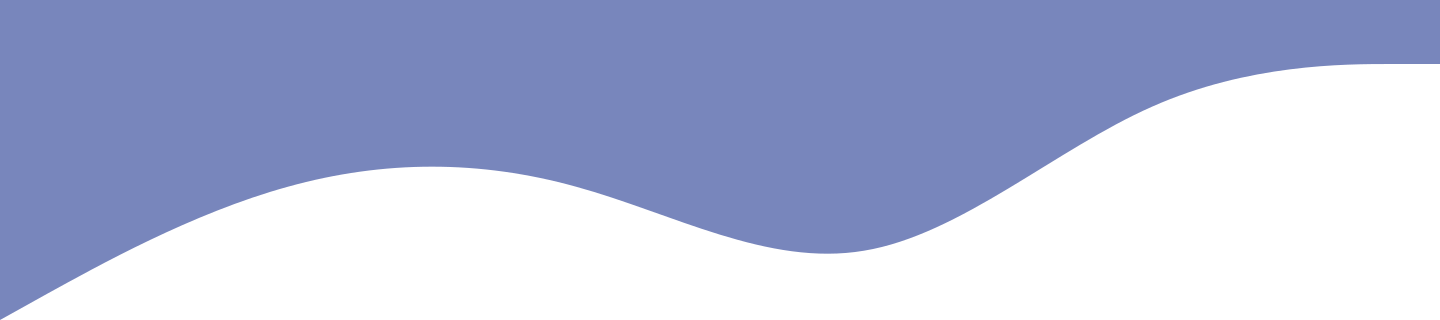
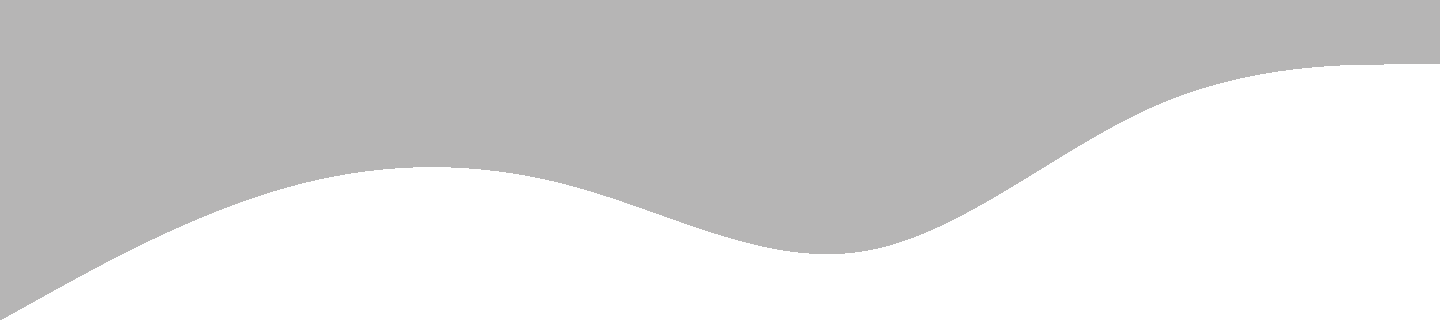
commit 5

diff --git a/man.html b/man.html
@@ -1,0 +1,114 @@
+<!DOCTYPE html>
+<html lang="en">
+
+<head>
+    <meta charset="UTF-8">
+    <meta http-equiv="X-UA-Compatible" content="IE=edge">
+    <meta name="viewport" content="width=device-width, initial-scale=1.0">
+    <link rel="stylesheet" href="https://cdn.jsdelivr.net/npm/bootstrap@4.6.2/dist/css/bootstrap.min.css"
+        integrity="sha384-xOolHFLEh07PJGoPkLv1IbcEPTNtaed2xpHsD9ESMhqIYd0nLMwNLD69Npy4HI+N" crossorigin="anonymous">
+    <link rel="stylesheet" href="assets/css/main.css">
+    <link rel="shortcut icon" href="assets/img/brand/brand.png" type="image/x-icon">
+    <title>Mar Valencia | Asesora de Imagen</title>
+</head>
+
+<body>
+
+    <nav class="navbar navbar-expand-lg navbar-light bg-white fixed-top">
+        <div class="container">
+            <a class="navbar-brand" href="#">
+                <img class="img-fluid" width="80" src="assets/img/brand/brand.png" alt="">
+                <span>Mar Valencia</span>
+            </a>
+            <button class="navbar-toggler" type="button" data-toggle="collapse" data-target="#navbarNav"
+                aria-controls="navbarNav" aria-expanded="false" aria-label="Toggle navigation">
+                <span class="navbar-toggler-icon"></span>
+            </button>
+            <div class="collapse navbar-collapse justify-content-end" id="navbarNav">
+                <ul class="navbar-nav text-center">
+                    <li class="nav-item">
+                        <a class="nav-link" href="#">Inicio</a>
+                    </li>
+                    <li class="nav-item">
+                        <a class="nav-link" href="#">Mujeres</a>
+                    </li>
+                    <li class="nav-item">
+                        <a class="nav-link active" href="#">Hombres</a>
+                    </li>
+                    <li class="nav-item">
+                        <a class="nav-link" href="#">Servicios Online</a>
+                    </li>
+                    <li class="nav-item">
+                        <a class="nav-link-btn" href="#">Contacto</a>
+                    </li>
+                </ul>
+            </div>
+        </div>
+    </nav>
+
+    <section class="header-man">
+        <div class="bg-header-man">
+            <div class="container h-100">
+                <div class="row justify-content-center h-100 align-items-center">
+                    <div class="col-lg-12 text-center">
+                        <h1>Conócete primero y luego adórnate acorde a ello. </h1>
+                    </div>
+                </div>
+            </div>
+        </div>
+    </section>
+
+    <section class="section1">
+        <div class="container-fluid">
+            <div class="row justify-content-center">
+                <div class="col-lg-6 text-center">
+                    <img src="assets/img/about/man1.jpg" width="600" class="img-fluid img-mar">
+                </div>
+                <div class="col-lg-6 align-self-center">
+                    <h1>Te ayudo a que brilles por ti mismo </h1>
+                    <p class="text-justify mt-5">
+                        El estilo debe ser siempre una declaración de principios de uno mismo, expresa lo que somos sin
+                        tener que hablar.
+                        Esta es la razón por la que mis servicios de consultoría de imagen para hombre son
+                        personalizados y únicos para cada uno de mis clientes. Con los que profundizo en su forma de
+                        vida, gustos, características físicas para conseguir los mejores resultados.
+
+                    </p>
+                </div>
+            </div>
+        </div>
+    </section>
+
+    <footer>
+        <div class="container">
+            <div class="row justify-content-center">
+                <div class="col-lg-4 align-self-center text-center">
+                    <img src="assets/img/brand/whitebrand.png" width="80" alt="" class="img-fluid">
+                    <span>Mar valencia</span>
+                </div>
+                <div class="col-lg-4 align-self-center">
+                    <p class="text-center">Footer Menu</p>
+                    <div class="footer-menu text-center">
+                        <a href="">Inicio</a>
+                        <a href="">Mujeres</a>
+                        <a href="">Hombres</a>
+                        <a href="">Servicios Online</a>
+                        <a href="">Contacto</a>
+                    </div>
+                </div>
+                <div class="col-lg-4 align-self-center design text-center">
+                    Template diseñado por <a class="creativotion" href="https://creativotion.com">creativotion.com</a>
+                </div>
+            </div>
+        </div>
+    </footer>
+
+    <script src="https://cdn.jsdelivr.net/npm/jquery@3.5.1/dist/jquery.slim.min.js"
+        integrity="sha384-DfXdz2htPH0lsSSs5nCTpuj/zy4C+OGpamoFVy38MVBnE+IbbVYUew+OrCXaRkfj"
+        crossorigin="anonymous"></script>
+    <script src="https://cdn.jsdelivr.net/npm/bootstrap@4.6.2/dist/js/bootstrap.bundle.min.js"
+        integrity="sha384-Fy6S3B9q64WdZWQUiU+q4/2Lc9npb8tCaSX9FK7E8HnRr0Jz8D6OP9dO5Vg3Q9ct"
+        crossorigin="anonymous"></script>
+</body>
+
+</html>

diff --git a/base.html b/base.html
@@ -1,0 +1,81 @@
+<!DOCTYPE html>
+<html lang="en">
+
+<head>
+    <meta charset="UTF-8">
+    <meta http-equiv="X-UA-Compatible" content="IE=edge">
+    <meta name="viewport" content="width=device-width, initial-scale=1.0">
+    <link rel="stylesheet" href="https://cdn.jsdelivr.net/npm/bootstrap@4.6.2/dist/css/bootstrap.min.css"
+        integrity="sha384-xOolHFLEh07PJGoPkLv1IbcEPTNtaed2xpHsD9ESMhqIYd0nLMwNLD69Npy4HI+N" crossorigin="anonymous">
+    <link rel="stylesheet" href="assets/css/main.css">
+    <link rel="shortcut icon" href="assets/img/brand/brand.png" type="image/x-icon">
+    <title>Mar Valencia | Asesora de Imagen</title>
+</head>
+
+<body>
+
+    <nav class="navbar navbar-expand-lg navbar-light bg-white fixed-top">
+        <div class="container">
+            <a class="navbar-brand" href="#">
+                <img class="img-fluid" width="80" src="assets/img/brand/brand.png" alt="">
+                <span>Mar Valencia</span>
+            </a>
+            <button class="navbar-toggler" type="button" data-toggle="collapse" data-target="#navbarNav"
+                aria-controls="navbarNav" aria-expanded="false" aria-label="Toggle navigation">
+                <span class="navbar-toggler-icon"></span>
+            </button>
+            <div class="collapse navbar-collapse justify-content-end" id="navbarNav">
+                <ul class="navbar-nav text-center">
+                    <li class="nav-item">
+                        <a class="nav-link active" href="#">Inicio</a>
+                    </li>
+                    <li class="nav-item">
+                        <a class="nav-link" href="#">Mujeres</a>
+                    </li>
+                    <li class="nav-item">
+                        <a class="nav-link" href="#">Hombres</a>
+                    </li>
+                    <li class="nav-item">
+                        <a class="nav-link" href="#">Servicios Online</a>
+                    </li>
+                    <li class="nav-item">
+                        <a class="nav-link-btn" href="#">Contacto</a>
+                    </li>
+                </ul>
+            </div>
+        </div>
+    </nav>
+
+    <footer>
+        <div class="container">
+            <div class="row justify-content-center">
+                <div class="col-lg-4 align-self-center text-center">
+                    <img src="assets/img/brand/whitebrand.png" width="80" alt="" class="img-fluid">
+                    <span>Mar valencia</span>
+                </div>
+                <div class="col-lg-4 align-self-center">
+                    <p class="text-center">Footer Menu</p>
+                    <div class="footer-menu text-center">
+                        <a href="">Inicio</a>
+                        <a href="">Mujeres</a>
+                        <a href="">Hombres</a>
+                        <a href="">Servicios Online</a>
+                        <a href="">Contacto</a>
+                    </div>
+                </div>
+                <div class="col-lg-4 align-self-center design text-center">
+                    Template diseñado por <a class="creativotion" href="https://creativotion.com">creativotion.com</a>
+                </div>
+            </div>
+        </div>
+    </footer>
+
+    <script src="https://cdn.jsdelivr.net/npm/jquery@3.5.1/dist/jquery.slim.min.js"
+        integrity="sha384-DfXdz2htPH0lsSSs5nCTpuj/zy4C+OGpamoFVy38MVBnE+IbbVYUew+OrCXaRkfj"
+        crossorigin="anonymous"></script>
+    <script src="https://cdn.jsdelivr.net/npm/bootstrap@4.6.2/dist/js/bootstrap.bundle.min.js"
+        integrity="sha384-Fy6S3B9q64WdZWQUiU+q4/2Lc9npb8tCaSX9FK7E8HnRr0Jz8D6OP9dO5Vg3Q9ct"
+        crossorigin="anonymous"></script>
+</body>
+
+</html>

diff --git a/index.html b/index.html
@@ -30,10 +30,10 @@
                         <a class="nav-link active" href="#">Inicio</a>
                     </li>
                     <li class="nav-item">
-                        <a class="nav-link" href="#">Hombres</a>
+                        <a class="nav-link" href="#">Mujeres</a>
                     </li>
                     <li class="nav-item">
-                        <a class="nav-link" href="#">Mujeres</a>
+                        <a class="nav-link" href="#">Hombres</a>
                     </li>
                     <li class="nav-item">
                         <a class="nav-link" href="#">Servicios Online</a>
@@ -214,8 +214,8 @@
                     <p class="text-center">Footer Menu</p>
                     <div class="footer-menu text-center">
                         <a href="">Inicio</a>
-                        <a href="">Hombres</a>
                         <a href="">Mujeres</a>
+                        <a href="">Hombres</a>
                         <a href="">Servicios Online</a>
                         <a href="">Contacto</a>
                     </div>

diff --git a/assets/css/main.css b/assets/css/main.css
@@ -7,10 +7,10 @@
 }
 
 :root {
-    --primary-color: #eeb6b4;
-    --secondary-color: #7886bc;
+    --primary-color: #ffddda;
+    --secondary-color: #b6b5b5;
     --tertiary-color: #f5f5f5;
-    --secondary-color-hover: #9399b0;
+    --secondary-color-hover: #9e9e9e;
 }
 
 html {
@@ -46,7 +46,9 @@ p{
     font-size: 22px;
 }
 
-/* Start Header */
+/* Home Page */
+
+/* Start Home Header */
 
 .header {
     height: 100vh;
@@ -150,7 +152,7 @@ p{
     display: block;
     padding: .5rem 1rem;
     background-color: var(--primary-color);
-    color: var(--tertiary-color);
+    color: var(--secondary-color);
     border-radius: 3rem;
     transition: all ease .5s;
 }
@@ -276,4 +278,28 @@ footer span{
 }
 
 /* End Footer */
+
+/* End Home Page */
+
+
+/* Man Page */
+
+/* Header Man */
+
+.header-man{
+    height: 100vh;
+}
+
+.bg-header-man{
+    background-image: url(../img/slider/bg-man.jpg);
+    background-repeat: no-repeat;
+    background-size: cover;
+    background-position: top center;
+    height: 85%;
+    margin-top: 3rem;
+}
+
+/* End Header Man */
+
+/* End Man Page */
 
